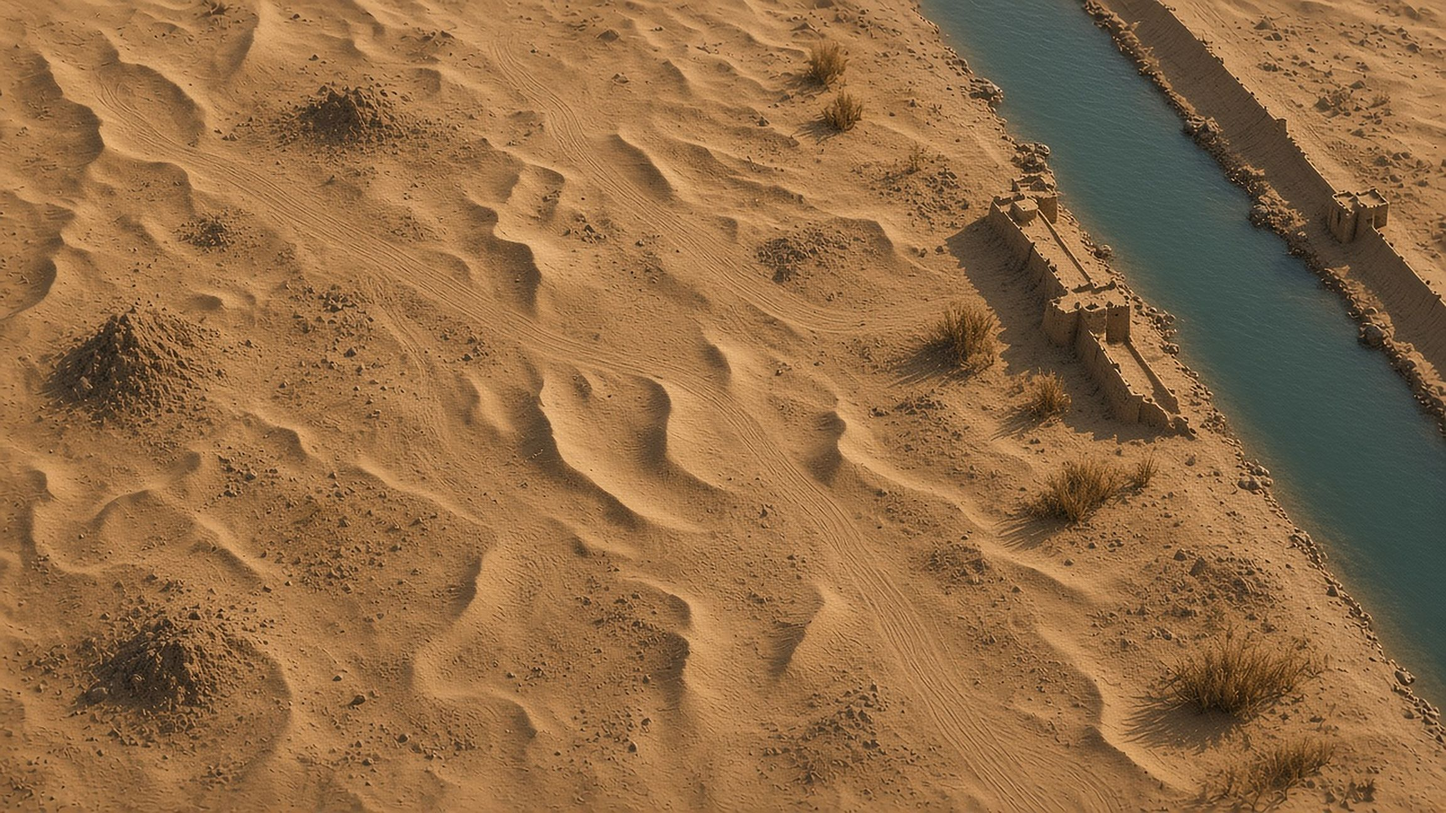
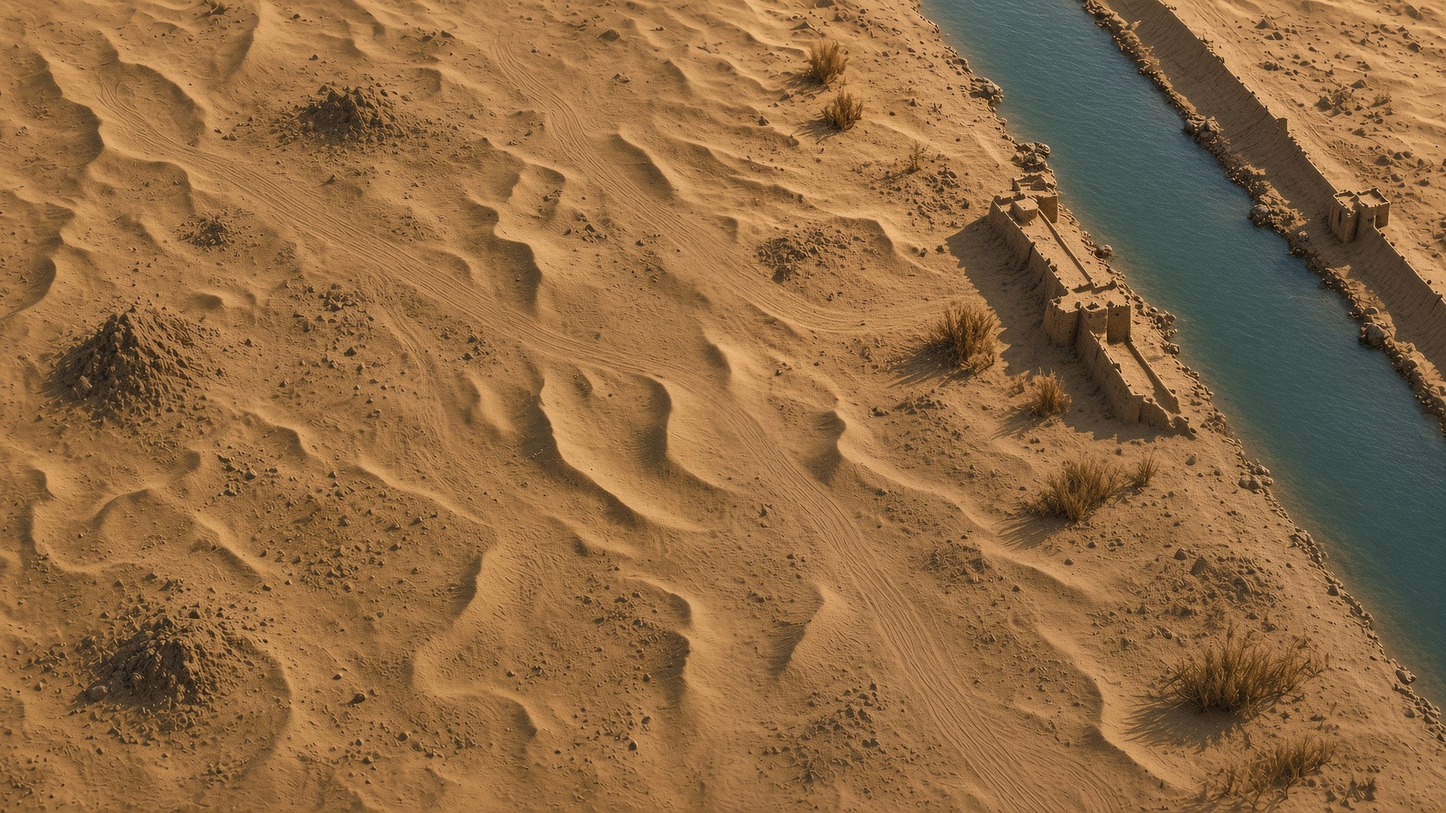
Graphics pass: distinct per-tank hulls (one top-down image per tank, 8 dirs), 2x-res HD maps 9-10, 2x ground buffer + HiDPI canvas, glow tracers/muzzle flashes/sparks/fire light, smoke trails, building beacons, new selection visuals; 60fps [2/3]

diff --git a/ui.js b/ui.js
@@ -71,10 +71,10 @@ function tab(w){$('bld').classList.toggle('hide',w!=='b');$('unt').classList.tog
 $('tabB').onclick=()=>{sfx('click');tab('b')};$('tabU').onclick=()=>{sfx('click');tab('u')};
 // ---------- rendering ----------
 const cv=$('c'),ctx=cv.getContext('2d'),mini=$('mini'),mctx=mini.getContext('2d');let bg=null,miniBg=null,fogC=null;
-function resize(){const v=$('view');VW=cv.width=v.clientWidth;VH=cv.height=v.clientHeight;if(G){const r=G.H/G.W;mini.width=220;mini.height=220*r|0;clampCam();}}
+function resize(){const v=$('view');VW=v.clientWidth;VH=v.clientHeight;DPR=Math.min(window.devicePixelRatio||1,matchMedia('(pointer:coarse)').matches?1.75:2);cv.width=VW*DPR|0;cv.height=VH*DPR|0;if(G){const r=G.H/G.W;mini.width=220;mini.height=220*r|0;clampCam();}}
 addEventListener('resize',resize);
 function clampCam(){if(!G)return;const w=WV(),h=HV();cam.x=Math.max(0,Math.min(G.W-w,cam.x));cam.y=Math.max(0,Math.min(G.H-h,cam.y));if(G.W<w)cam.x=(G.W-w)/2;if(G.H<h)cam.y=(G.H-h)/2;}
-function buildBg(){bg=document.createElement('canvas');bg.width=G.W;bg.height=G.H;const x=bg.getContext('2d');const T=TILES[G.st.map]||TILES.golan,sand=G.st.map==='sinai';
+function buildBg(){bg=document.createElement('canvas');bg.width=G.W*BGS|0;bg.height=G.H*BGS|0;const x=bg.getContext('2d');x.scale(BGS,BGS);x.imageSmoothingQuality='high';const T=TILES[G.st.map]||TILES.golan,sand=G.st.map==='sinai';
  if(T.complete&&T.naturalWidth){x.fillStyle=x.createPattern(T,'repeat');}else x.fillStyle=sand?'#c9a46a':'#6a5a40';x.fillRect(0,0,G.W,G.H);if(!sand){x.fillStyle='rgba(40,28,12,.38)';x.fillRect(0,0,G.W,G.H);}
  const P=paintFor(G.st),painted=P.complete&&P.naturalWidth;if(painted){x.drawImage(P,0,0,G.W,G.H);x.globalAlpha=sand?.1:.2;x.globalCompositeOperation='overlay';x.fillStyle=x.createPattern(T,'repeat');x.fillRect(0,0,G.W,G.H);x.globalAlpha=1;x.globalCompositeOperation='source-over';}
  let s=G.seed|0;const r=()=>((s=(s*1103515245+12345)&0x7fffffff)/0x7fffffff);
@@ -83,7 +83,7 @@ function buildBg(){bg=document.createElement('canvas');bg.width=G.W;bg.height=G.
  for(let y=0;y<G.gh;y++)for(let xx=0;xx<G.gw;xx++)if(G.rock[y*G.gw+xx])cells.push([xx,y]);
  cells.sort((p,q)=>p[1]-q[1]);if(!painted)for(const [xx,y] of cells){const im=rocks[r()*9|0];if(!im.width)continue;const sz=30+r()*14,cx=xx*CELL+12+(r()-.5)*6,cy=y*CELL+12+(r()-.5)*6;const h=im.height*sz/im.width;
   x.fillStyle='rgba(0,0,0,.3)';x.beginPath();x.ellipse(cx+4,cy+h*.3,sz*.45,sz*.18,0,0,7);x.fill();x.save();x.translate(cx,cy);if(r()<.5)x.scale(-1,1);x.drawImage(im,-sz/2,-h*.6,sz,h);x.restore();if(!sand){x.strokeStyle='rgba(210,200,180,.18)';x.lineWidth=1.5;x.beginPath();x.ellipse(cx,cy-h*.1,sz*.38,h*.38,0,3.5,5.9);x.stroke();}}
- if(painted){const D=(n,px,py,sz,fl,al)=>{const im=DEC[n];if(!im||!im.width)return;const h=im.height*sz/im.width;x.save();x.translate(px,py);if(fl)x.scale(-1,1);if(al!=null)x.globalAlpha=al;x.filter='brightness(0) blur(4px)';x.globalAlpha*=.35;x.drawImage(im,-sz/2+7,-h*.6+6,sz,h);x.filter='none';x.globalAlpha=al!=null?al:1;x.drawImage(im,-sz/2,-h*.6,sz,h);x.restore();};
+ if(painted){const D=(n,px,py,sz,fl,al)=>{const im=DEC[n];if(!im||!im.width)return;const h=im.height*sz/im.width;x.save();x.translate(px,py);if(fl)x.scale(-1,1);if(al!=null)x.globalAlpha=al;{const sh=shadowOf(im),q=sz/im.width;x.globalAlpha*=.35;x.drawImage(sh,-sz/2+7-(sh.width-im.width)/2*q,-h*.6+6-(sh.height-im.height)/2*q,sh.width*q,sh.height*q);}x.globalAlpha=al!=null?al:1;x.drawImage(im,-sz/2,-h*.6,sz,h);x.restore();};
   const free=(px,py)=>{const cx=px/CELL|0,cy=py/CELL|0;return cx>=0&&cy>=0&&cx<G.gw&&cy<G.gh&&!G.rock[cy*G.gw+cx]&&!G.ents.some(e=>e.kind==='b'&&px>e.x-30&&px<e.x+e.w+30&&py>e.y-30&&py<e.y+e.h+30);};
   const rc=cells.filter(()=>r()<.09);for(const [xx,y] of rc)D('rk'+(r()*4|0),xx*CELL+12,y*CELL+14,34+r()*26,r()<.5);
   for(let i=0;i<G.W*G.H/38000;i++){const px=r()*G.W,py=r()*G.H;if(free(px,py))D('bush'+(r()*2|0),px,py,22+r()*14,r()<.5,sand?.75:.9);}
@@ -98,8 +98,10 @@ function buildBg(){bg=document.createElement('canvas');bg.width=G.W;bg.height=G.
 function drawFog(){const f=fogC.getContext('2d'),id=f.createImageData(G.gw,G.gh);for(let i=0;i<G.vis.length;i++){id.data[i*4+3]=G.vis[i]?0:G.seen[i]?110:235;}f.putImageData(id,0,0);}
 function spr(img,x,y,sz,flip,alpha){const s=sz/Math.max(img.width,img.height);const w=img.width*s,h=img.height*s;ctx.save();ctx.translate(x,y);if(flip)ctx.scale(-1,1);if(alpha!=null)ctx.globalAlpha=alpha;ctx.drawImage(img,-w/2,-h/2,w,h);ctx.restore();}
 function unitImg(u){const d=u.def;let im=IMG[d.img];if(d.tint==='foe')im=tinted(d.img,FOE_F);else if(d.tint==='jeep')im=tinted(d.img,JEEP_F);return im;}
-function draw(){ctx.fillStyle='#000';ctx.fillRect(0,0,VW,VH);ctx.save();ctx.setTransform(Z,0,0,Z,-Math.round(cam.x*Z),-Math.round(cam.y*Z));
- {const w=Math.min(WV(),G.W-cam.x),h=Math.min(HV(),G.H-cam.y);ctx.drawImage(bg,cam.x,cam.y,w,h,cam.x,cam.y,w,h);}
+const GLW={};function glow(c,r=32){const k=c+r;if(GLW[k])return GLW[k];const cv=document.createElement('canvas');cv.width=cv.height=r*2;const x=cv.getContext('2d');const g=x.createRadialGradient(r,r,0,r,r,r);g.addColorStop(0,`rgba(${c},1)`);g.addColorStop(.25,`rgba(${c},.5)`);g.addColorStop(1,`rgba(${c},0)`);x.fillStyle=g;x.fillRect(0,0,r*2,r*2);return GLW[k]=cv;}
+let sparks=[];const LOWFX=matchMedia('(pointer:coarse)').matches;function addGlow(c,x,y,r,a){ctx.globalAlpha=Math.max(0,Math.min(1,a));ctx.drawImage(glow(c),x-r,y-r,r*2,r*2);}
+function draw(){ctx.setTransform(1,0,0,1,0,0);ctx.fillStyle='#000';ctx.fillRect(0,0,cv.width,cv.height);ctx.save();ctx.setTransform(Z*DPR,0,0,Z*DPR,-Math.round(cam.x*Z*DPR),-Math.round(cam.y*Z*DPR));
+ {const w=Math.min(WV(),G.W-cam.x),h=Math.min(HV(),G.H-cam.y);ctx.drawImage(bg,cam.x*BGS,cam.y*BGS,w*BGS,h*BGS,cam.x,cam.y,w,h);}
  const inV=(x,y,m=80)=>x>cam.x-m&&x<cam.x+WV()+m&&y>cam.y-m&&y<cam.y+HV()+m;
  for(const f of G.fields){if(!inV(f.x,f.y))continue;const a=Math.max(.15,f.amt/f.max);const rg=ctx.createRadialGradient(f.x,f.y,2,f.x,f.y,f.r);rg.addColorStop(0,`rgba(240,200,70,${.7*a})`);rg.addColorStop(1,'rgba(240,200,70,0)');ctx.fillStyle=rg;ctx.beginPath();ctx.arc(f.x,f.y,f.r,0,7);ctx.fill();
   for(let i=0;i<Math.ceil(6*a);i++){const an=i*1.1,dd=f.r*.45;const bx=f.x+Math.cos(an)*dd,by=f.y+Math.sin(an)*dd*.7;ctx.fillStyle='#3d4a2a';ctx.fillRect(bx-6,by-4,12,8);ctx.fillStyle='#6b7a45';ctx.fillRect(bx-6,by-4,12,2);ctx.fillStyle='#b33';ctx.fillRect(bx-1,by-3,2,2);}}
@@ -107,32 +109,42 @@ function draw(){ctx.fillStyle='#000';ctx.fillRect(0,0,VW,VH);ctx.save();ctx.setT
  for(const e of list){if(e.kind==='b'){let im=IMG[e.def.img];if(e.side==='foe')im=tinted(e.def.img,FOE_F);const s=Math.max(e.w/im.width,(e.h*1.25)/im.height)*1.12;const w=im.width*s,h=im.height*s;
    ctx.save();ctx.globalAlpha=.25+e.dep*.75;ctx.globalAlpha*=.4;ctx.drawImage(shadowOf(im),e.cx-w/2+10-8,e.y+e.h-h+14-8,w+16,h+16);ctx.globalAlpha=.25+e.dep*.75;ctx.drawImage(im,e.cx-w/2,e.y+e.h-h+6,w,h);ctx.restore();
    if(e.side==='foe'){ctx.fillStyle='#b83a2e';ctx.fillRect(e.x+4,e.y-8,12,8);}
-   if(G.sel.includes(e)){ctx.strokeStyle='#fff';ctx.strokeRect(e.x,e.y,e.w,e.h);}}
+   {ctx.save();ctx.globalCompositeOperation='lighter';if(((G.t+e.id*13)%90)<9)addGlow(e.side==='me'?'120,200,255':'255,80,60',e.cx+e.w*.28,e.y+e.h-h+6+h*.14,15,.95);if(e.hp<e.max*.4&&SC.fx!=='confetti')addGlow('255,120,40',e.cx,e.cy,e.w*.6,.18+.08*Math.sin(G.t*.4));ctx.restore();}
+   if(G.sel.includes(e)){const p=4+Math.sin(G.t*.15)*2,L=Math.min(e.w,e.h)*.28;ctx.strokeStyle='rgba(140,255,170,.95)';ctx.lineWidth=2.2;ctx.beginPath();for(const [cx,cy,sx,sy] of [[e.x-p,e.y-p,1,1],[e.x+e.w+p,e.y-p,-1,1],[e.x-p,e.y+e.h+p,1,-1],[e.x+e.w+p,e.y+e.h+p,-1,-1]]){ctx.moveTo(cx+sx*L,cy);ctx.lineTo(cx,cy);ctx.lineTo(cx,cy+sy*L);}ctx.stroke();}}
   else{const d=e.def,im=unitImg(e);const c=Math.cos(e.ang);const flip=(c<0)!==(d.face<0);
-   {ctx.drawImage(SH,e.x+d.sz*.12-d.sz*.55,e.y+d.sz*.22-d.sz*.26,d.sz*1.1,d.sz*.52);
+   {if(G.sel.includes(e)){ctx.save();ctx.globalCompositeOperation='lighter';addGlow(e.side==='me'?'80,190,255':'255,90,70',e.x,e.y+d.sz*.22,d.sz*.9,.3);ctx.restore();}ctx.drawImage(SH,e.x+d.sz*.12-d.sz*.55,e.y+d.sz*.22-d.sz*.26,d.sz*1.1,d.sz*.52);
    const pw=d.sz*.46,ph=d.sz*.2,py=e.y+d.sz*.26;ctx.fillStyle=e.side==='me'?'rgba(60,130,255,.32)':'rgba(230,50,35,.32)';ctx.strokeStyle=e.side==='me'?'rgba(110,180,255,.85)':'rgba(255,90,70,.85)';ctx.lineWidth=1.5;ctx.beginPath();ctx.moveTo(e.x-pw,py);ctx.lineTo(e.x,py-ph);ctx.lineTo(e.x+pw,py);ctx.lineTo(e.x,py+ph);ctx.closePath();ctx.fill();ctx.stroke();
    if(e._px!=null&&(Math.abs(e.x-e._px)+Math.abs(e.y-e._py))>.4&&(G.t+e.id)%5===0&&!d.inf&&puffs.length<260)puffs.push({x:e.x-Math.cos(e.ang)*d.sz*.4,y:e.y+d.sz*.15-Math.sin(e.ang)*d.sz*.3,r:4+Math.random()*4,t:0,d:50+Math.random()*30,c:G.st.map==='sinai'?'215,180,120':'150,125,95'});e._px=e.x;e._py=e.y;}
    const sn=Math.sin(e.ang),cs=Math.cos(e.ang);const fired=d.rof&&e.cd>d.rof-8?(e.cd-(d.rof-8))/8:0;const ta=e.tur!=null?e.tur:e.ang;
    const rx=e.x-Math.cos(ta)*fired*3,ry=e.y-Math.sin(ta)*fired*2+(d.harv?Math.sin((G.t+e.id*7)*.3)*.4:0);
    if(d.hull||d.dirs){const dir=dirOf(e.ang);const key=(d.hull?'hull_'+d.hull:d.dirs)+'_'+dir;const hi=DIRIMG[key];
-    if(hi&&hi.complete&&hi.width){const sc=d.sz*1.3/100;const w=hi.width*sc,h=hi.height*sc;ctx.drawImage(hi,rx-w/2,ry-h/2,w,h);
+    if(hi&&hi.complete&&hi.width){const sc=d.sz*1.3/100,hm=META[d.hull?'hull_'+d.hull:d.dirs],hs=sc/((hm&&hm.s)||1);const w=hi.width*hs,h=hi.height*hs;ctx.drawImage(hi,rx-w/2,ry-h/2,w,h);
      if(d.tur){const ti=DIRIMG['tur_'+d.tur],tm=META['tur_'+d.tur],rm=META['hull_'+d.hull]&&META['hull_'+d.hull][dir];const want=(e.cd>0&&e.tur!=null)?e.tur:e.ang;e.tv=e.tv==null?want:angLerp(e.tv,want,.12);
       if(ti&&ti.width&&tm&&rm){const px=rx-w/2+rm[0]*w,py=ry-h/2+rm[1]*h;const ts=sc*1.15;const tw=ti.width*ts,th=ti.height*ts;ctx.save();ctx.translate(px,py-2);ctx.scale(1,.72);ctx.rotate(e.tv);ctx.drawImage(ti,-tm.px*tw,-th/2,tw,th);ctx.restore();}}}
    } else {const s2=d.sz/Math.max(im.width,im.height),w=im.width*s2,h=im.height*s2;ctx.save();ctx.translate(rx,ry);if(flip)ctx.scale(-1,1);const tilt=(cs<0?-1:1)*sn*.28*(flip?-1:1);ctx.rotate(tilt);ctx.scale(1,1-Math.abs(sn)*.12);ctx.drawImage(im,-w/2,-h/2,w,h);ctx.restore();}
    if(e.cd>d.rof-5&&d.dmg){const a=e.tv!=null?e.tv:(e.tur||e.ang);ctx.fillStyle='rgba(255,220,120,.9)';ctx.beginPath();ctx.arc(e.x+Math.cos(a)*d.sz*(d.tur?.85:.55),e.y-6+Math.sin(a)*d.sz*(d.tur?.6:.4),5,0,7);ctx.fill();}
    if(d.harv&&e.load>0){ctx.fillStyle='#d8b23a';ctx.fillRect(e.x-8,e.y-d.sz*.55,16*e.load/d.cap,3);}
+   if(G.sel.includes(e)){ctx.save();ctx.setLineDash([5,4]);ctx.lineDashOffset=-G.t*.6;ctx.strokeStyle='rgba(210,255,220,.75)';ctx.lineWidth=1.2;ctx.beginPath();ctx.ellipse(e.x,e.y+d.sz*.22,d.sz*.7,d.sz*.31,0,0,7);ctx.stroke();ctx.restore();}
    if(G.sel.includes(e)){const k=Math.max(0,1-(G.t-selPulse)/20);ctx.strokeStyle=`rgba(120,255,140,${.9})`;ctx.lineWidth=1.5+k*2;ctx.beginPath();ctx.ellipse(e.x,e.y+d.sz*.22,d.sz*(.5+k*.3),d.sz*(.22+k*.12),0,0,7);ctx.stroke();
     const q=d.sz*.55;ctx.strokeStyle='rgba(255,255,255,.8)';ctx.lineWidth=1.5;[[-1,-1],[1,-1],[-1,1],[1,1]].forEach(([a,b])=>{ctx.beginPath();ctx.moveTo(e.x+a*q,e.y+b*q*.8-a*0);ctx.lineTo(e.x+a*q-a*6,e.y+b*q*.8);ctx.moveTo(e.x+a*q,e.y+b*q*.8);ctx.lineTo(e.x+a*q,e.y+b*q*.8-b*6);ctx.stroke();});}}
   if(e.hp<e.max||G.sel.includes(e)){const p=G.pos(e),w=e.kind==='b'?e.w:30,y=e.kind==='b'?e.y-12:e.y-e.def.sz*.6;const f=e.hp/e.max;ctx.fillStyle='rgba(0,0,0,.7)';ctx.fillRect(p.x-w/2-1,y-1,w+2,6);ctx.fillStyle=f>.5?'#4fd34f':f>.25?'#e8c547':'#e04a3a';ctx.fillRect(p.x-w/2,y,w*f,4);ctx.fillStyle='rgba(255,255,255,.35)';ctx.fillRect(p.x-w/2,y,w*f,1);
    ctx.fillStyle='rgba(0,0,0,.55)';const seg=e.kind==='b'?8:4;for(let i=1;i<seg;i++)ctx.fillRect(p.x-w/2+w*i/seg,y,1,4);if(e.side==='me'&&e.kind==='u'&&f<1&&G.ents.some(b=>b.kind==='b'&&b.side==='me'&&(b.type==='hq'||b.def.drop)&&d2(e,{x:b.cx,y:b.cy})<b.w/2+90)){ctx.fillStyle='#7cf';ctx.font='bold 11px sans-serif';ctx.fillText('🔧',p.x+w/2+2,y+5);}}}
- for(const p of G.shots){if(!inV(p.x,p.y))continue;ctx.strokeStyle='rgba(255,230,140,.95)';ctx.lineWidth=2;ctx.beginPath();ctx.moveTo(p.x,p.y);ctx.lineTo(p.x-p.vx*3,p.y-p.vy*3);ctx.stroke();}
+ {const cf=SC.fx==='confetti';for(const p of G.shots){if((G.t+(p.x|0))%3===0&&inV(p.x,p.y)&&puffs.length<(LOWFX?160:260))puffs.push({x:p.x-p.vx*2,y:p.y-p.vy*2,r:2.5,t:0,d:36,c:cf?(SC.smoke||['200,200,200'])[(p.x|0)%3]:'190,185,175',a0:.35});}
+ ctx.globalCompositeOperation='lighter';for(const p of G.shots){if(!inV(p.x,p.y))continue;addGlow(cf?'255,255,230':'255,190,100',p.x,p.y,9,.9);ctx.globalAlpha=.95;ctx.strokeStyle=cf?'rgba(255,245,190,.95)':'rgba(255,235,170,.95)';ctx.lineWidth=2;ctx.beginPath();ctx.moveTo(p.x,p.y);ctx.lineTo(p.x-p.vx*4,p.y-p.vy*4);ctx.stroke();}
+ for(const e of G.ents){if(e.kind!=='u'||!e.def.rof||!(e.cd>e.def.rof-5)||!inV(e.x,e.y))continue;const a=e.tur!=null?e.tur:e.ang,L=e.def.sz*.75,k=(e.cd-(e.def.rof-5))/5;addGlow(cf?'255,250,210':'255,190,90',e.x+Math.cos(a)*L,e.y+Math.sin(a)*L*.72-3,12+k*12,k);addGlow(cf?'255,240,200':'255,150,60',e.x,e.y+e.def.sz*.2,e.def.sz*1.2,.22*k);}
+ ctx.globalAlpha=1;ctx.globalCompositeOperation='source-over';}
  for(const f of G.fx){if(f.t<0||!inV(f.x,f.y))continue;const k=f.t/f.d;const rg=ctx.createRadialGradient(f.x,f.y,0,f.x,f.y,f.r*(.6+k*.6));rg.addColorStop(0,`rgba(255,240,180,${1-k})`);rg.addColorStop(.45,`rgba(255,120,30,${.85*(1-k)})`);rg.addColorStop(1,'rgba(60,40,30,0)');ctx.fillStyle=rg;ctx.beginPath();ctx.arc(f.x,f.y,f.r*(.6+k*.6),0,7);ctx.fill();
   if(f.big&&k<.5){ctx.strokeStyle=`rgba(255,220,160,${.6*(1-k*2)})`;ctx.lineWidth=2;ctx.beginPath();ctx.arc(f.x,f.y,f.r*(.5+k*2.2),0,7);ctx.stroke();}
   if(f.big&&k>.3){ctx.fillStyle=`rgba(50,45,40,${.4*(1-k)})`;ctx.beginPath();ctx.arc(f.x+k*10,f.y-k*30,f.r*.6*k+6,0,7);ctx.fill();}}
+ for(const f of G.fx){if(!f._sp){f._sp=1;const n=f.big?(LOWFX?10:22):(LOWFX?3:6),C=SC.confetti;for(let i=0;i<n&&sparks.length<400;i++){const an=Math.random()*6.283,sp=(f.big?2.4:1.2)*(.4+Math.random());sparks.push({x:f.x,y:f.y,vx:Math.cos(an)*sp,vy:Math.sin(an)*sp*.6,z:0,vz:1+Math.random()*(f.big?3:1.5),life:20+Math.random()*25,c:C?C[i%C.length]:null});}}
+  if(f.t>=0&&inV(f.x,f.y)){ctx.globalCompositeOperation='lighter';addGlow(SC.fx==='confetti'?'255,240,210':'255,140,50',f.x,f.y,f.r*(f.big?4:2.5),.5*(1-f.t/f.d));ctx.globalCompositeOperation='source-over';ctx.globalAlpha=1;}}
+ ctx.globalCompositeOperation='lighter';for(const s of sparks){s.x+=s.vx;s.y+=s.vy;s.z+=s.vz;s.vz-=.22;if(s.z<0){s.z=0;s.vz*=-.3;s.vx*=.7;s.vy*=.7;}s.life--;if(!inV(s.x,s.y))continue;if(s.c){ctx.globalCompositeOperation='source-over';ctx.globalAlpha=Math.min(1,s.life/15);ctx.fillStyle=s.c;ctx.fillRect(s.x-1.5,s.y-s.z-1,3.5,2.2);ctx.globalCompositeOperation='lighter';}else{ctx.globalAlpha=Math.min(1,s.life/12);ctx.fillStyle='rgb(255,'+Math.min(240,150+s.life*3|0)+',70)';ctx.fillRect(s.x-1,s.y-s.z-1,2.4,2.4);}}
+ for(const m of smokers){const k=m.t/m.d;if(SC.fx!=='confetti'&&k<.55&&inV(m.x,m.y))addGlow('255,130,40',m.x,m.y-4,38,(.16+Math.random()*.08)*(1-k*1.6));}
+ ctx.globalAlpha=1;ctx.globalCompositeOperation='source-over';sparks=sparks.filter(s=>s.life>0);
  for(const f of G.fx)if(f.big&&!f._sm){f._sm=1;if(smokers.length<40)smokers.push({x:f.x,y:f.y,t:0,d:700+Math.random()*400});}
  for(const m of smokers){m.t++;if(!inV(m.x,m.y,200))continue;const k=m.t/m.d;if(k<.55&&m.t%3===0){const fl=.6+Math.random()*.4;ctx.globalAlpha=Math.max(0,fl*(1-k*1.6));ctx.drawImage(puffImg('255,170,60'),m.x-10,m.y-12,20,20);ctx.globalAlpha=1;}
   if(m.t%6===0&&puffs.length<300)puffs.push({x:m.x+(Math.random()-.5)*6,y:m.y-4,r:6+Math.random()*4,t:0,d:150,c:'45,40,36',rise:1,a0:.55*(1-k)});
-  if(k<.5){const hz=(G.t%40)/40;ctx.save();ctx.globalAlpha=.18;const sy=Math.sin(G.t*.3)*1.5;ctx.drawImage(bg,m.x-18,m.y-60,36,40,m.x-18+sy,m.y-61,36,40);ctx.restore();}}
+  if(k<.5){const hz=(G.t%40)/40;ctx.save();ctx.globalAlpha=.18;const sy=Math.sin(G.t*.3)*1.5;ctx.drawImage(bg,(m.x-18)*BGS,(m.y-60)*BGS,36*BGS,40*BGS,m.x-18+sy,m.y-61,36,40);ctx.restore();}}
  smokers=smokers.filter(m=>m.t<m.d);
  for(const q of puffs){q.t++;const k=q.t/q.d;if(q.rise){q.y-=.45;q.x+=.25+Math.sin((q.t+q.x)*.05)*.2;}else{q.y-=.06;}const r=q.r*(1+k*(q.rise?3.2:1.8));if(!inV(q.x,q.y))continue;ctx.globalAlpha=(q.a0||.32)*(1-k);ctx.drawImage(puffImg(q.c),q.x-r,q.y-r,r*2,r*2);ctx.globalAlpha=1;}
  puffs=puffs.filter(q=>q.t<q.d);
@@ -147,14 +159,14 @@ function draw(){ctx.fillStyle='#000';ctx.fillRect(0,0,VW,VH);ctx.save();ctx.setT
  if(drag&&drag.box){ctx.strokeStyle='#7f7';ctx.lineWidth=1;ctx.strokeRect(drag.x,drag.y,mouse.x-drag.x,mouse.y-drag.y);}
  ctx.font='bold 13px Heebo,Arial';ctx.textAlign='center';for(const b of bubbles){if(b.u.hp>0){b.x=b.u.x;b.y=b.u.y;}const a=Math.min(1,b.life/20);const tw=ctx.measureText(b.t).width+12,yy=b.y-46-(90-b.life)*.15;ctx.fillStyle=`rgba(20,16,10,${.8*a})`;ctx.fillRect(b.x-tw/2,yy-14,tw,19);ctx.fillStyle=`rgba(255,230,150,${a})`;ctx.fillText(b.t,b.x,yy);b.life--;}ctx.textAlign='start';
  for(let i=bubbles.length-1;i>=0;i--)if(bubbles[i].life<=0)bubbles.splice(i,1);
- ctx.restore();ctx.setTransform(1,0,0,1,0,0);
+ ctx.restore();ctx.setTransform(DPR,0,0,DPR,0,0);
  drawMini();}
 function drawMini(){const sx=mini.width/G.W,sy=mini.height/G.H;mctx.drawImage(miniBg,0,0);
  for(const e of G.ents){if(e.side==='foe'&&!(e.kind==='u'?G.visible(e.x,e.y):G.seen[(e.cy/CELL|0)*G.gw+(e.cx/CELL|0)]))continue;mctx.fillStyle=e.side==='me'?'#5af':'#f44';if(e.kind==='b')mctx.fillRect(e.x*sx,e.y*sy,Math.max(3,e.w*sx),Math.max(3,e.h*sy));else mctx.fillRect(e.x*sx-1.5,e.y*sy-1.5,3,3);}
  mctx.imageSmoothingEnabled=true;mctx.drawImage(fogC,0,0,mini.width,mini.height);mctx.strokeStyle='#fff';mctx.strokeRect(cam.x*sx,cam.y*sy,WV()*sx,HV()*sy);}
 function scorch(x,y,r){if(!bg||x==null)return;const c=bg.getContext('2d');const g=c.createRadialGradient(x,y,0,x,y,r);g.addColorStop(0,'rgba(15,10,5,.55)');g.addColorStop(1,'rgba(15,10,5,0)');c.fillStyle=g;c.beginPath();c.ellipse(x,y,r,r*.7,0,0,7);c.fill();
  for(let i=0;i<(r>30?14:7);i++){const a=Math.random()*6.283,v=1+Math.random()*3;debris.push({x,y,vx:Math.cos(a)*v,vy:Math.sin(a)*v-2,z:0,vz:2+Math.random()*3,life:40+Math.random()*30});}}
-const debris=[];let selPulse=-99,orderMark=null;
+const debris=[];let DPR=1;const BGS=matchMedia('(pointer:coarse)').matches?1.5:2;let selPulse=-99,orderMark=null;
 // zoom
 function zoomAt(f,sx,sy){const wx=sx/Z+cam.x,wy=sy/Z+cam.y;Z=Math.max(.5,Math.min(1.8,Z*f));cam.x=wx-sx/Z;cam.y=wy-sy/Z;clampCam();}
 cv.addEventListener('wheel',e=>{e.preventDefault();const r=cv.getBoundingClientRect();zoomAt(e.deltaY<0?1.12:1/1.12,e.clientX-r.left,e.clientY-r.top);},{passive:false});
